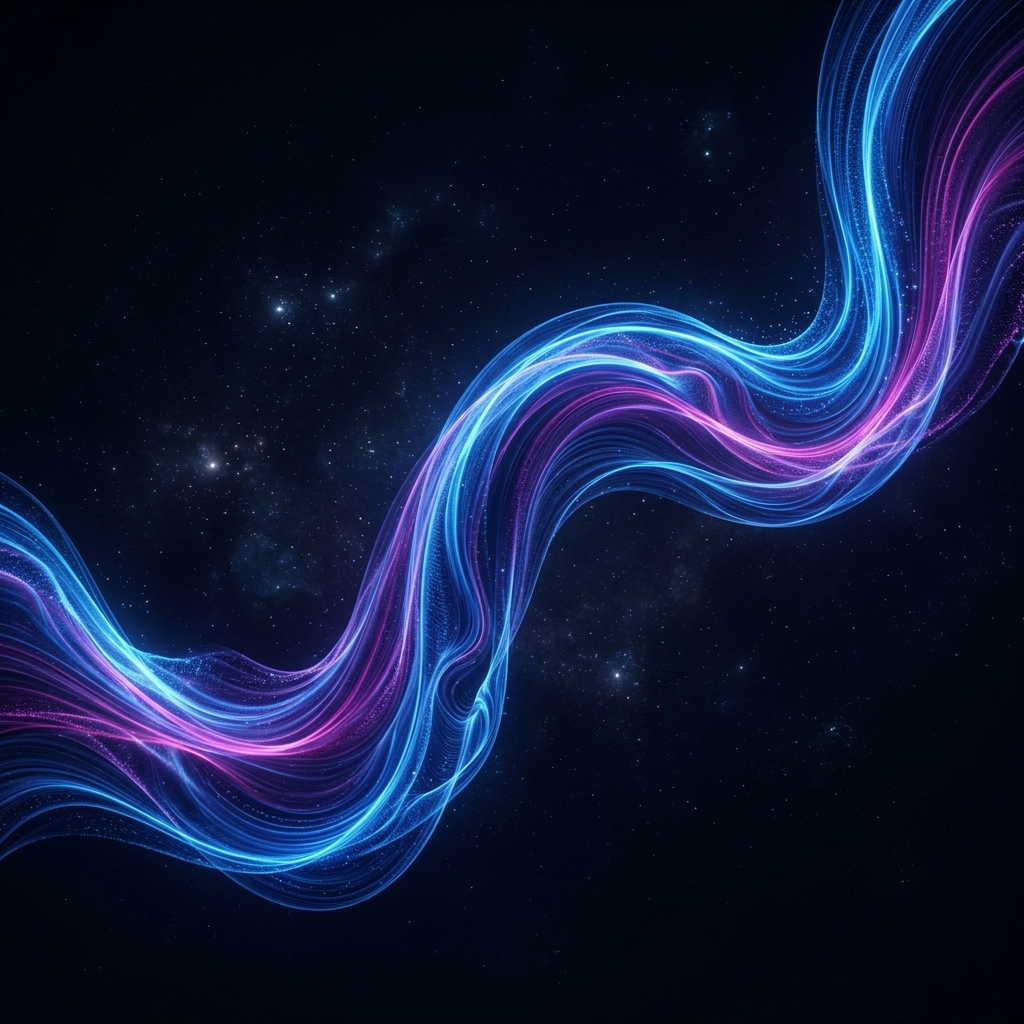
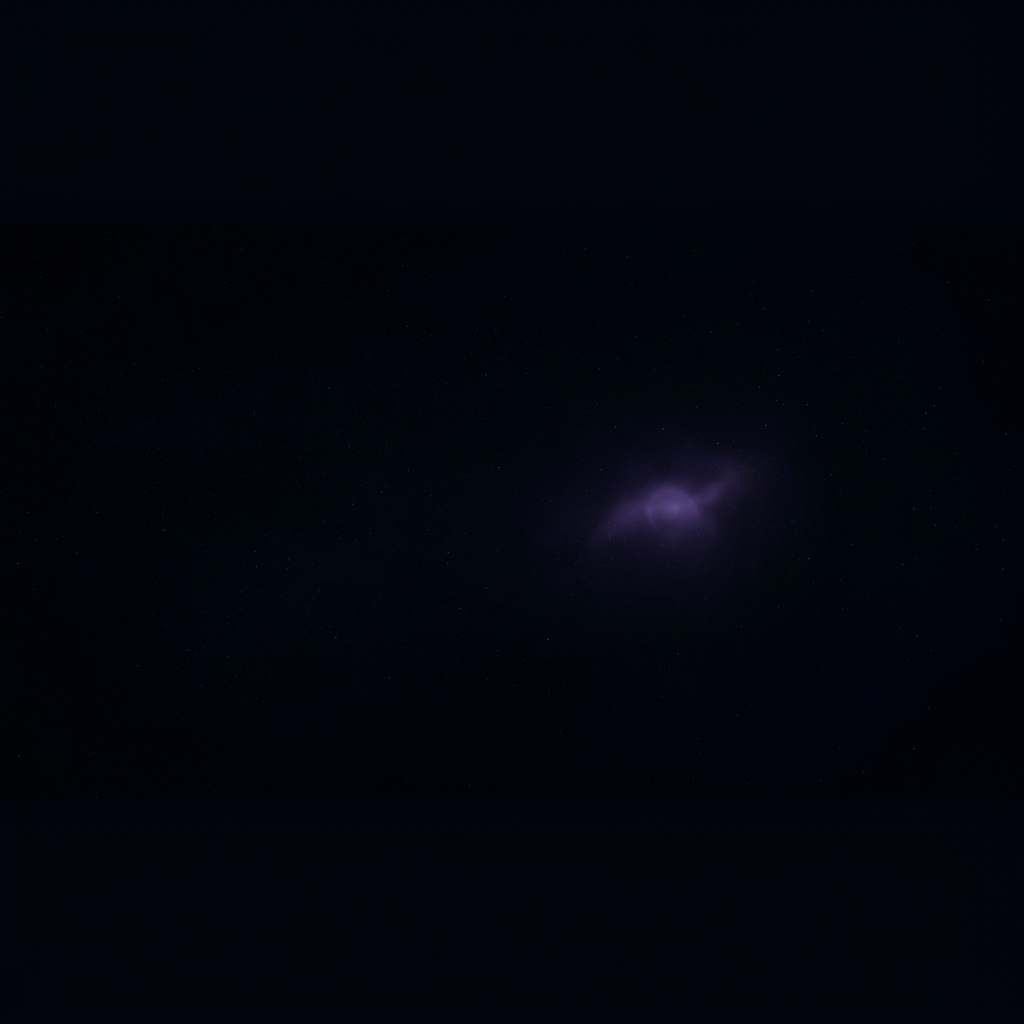
style: Switch accent to deep purple and darken cinematic background image

diff --git a/src/main/resources/css/github-theme.css b/src/main/resources/css/github-theme.css
@@ -8,8 +8,8 @@
     -canvas-color: rgba(255, 255, 255, 0.5);
     -border-color: rgba(0, 0, 0, 0.1);
     
-    -accent-blue: #3182ce;
-    -accent-blue-hover: #4299e1;
+    -accent-primary: #7c3aed;
+    -accent-primary-hover: #8b5cf6;
     -accent-purple: #805ad5;
     
     -input-bg: rgba(255, 255, 255, 0.6);
@@ -35,8 +35,8 @@
     -border-color: rgba(255, 255, 255, 0.12);
     
     /* Electric App Accents */
-    -accent-blue: #007bff;
-    -accent-blue-hover: #3399ff;
+    -accent-primary: #8b5cf6;
+    -accent-primary-hover: #a78bfa;
     -accent-purple: #bc8cff;
     
     -input-bg: rgba(0, 0, 0, 0.4);
@@ -76,13 +76,13 @@
 }
 
 .text-field:focused, .password-field:focused {
-    -fx-border-color: -accent-blue;
+    -fx-border-color: -accent-primary;
     -fx-border-width: 2px;
 }
 
 /* Core Brand Action Buttons - Pill Shaped */
 .button {
-    -fx-background-color: -accent-blue;
+    -fx-background-color: -accent-primary;
     -fx-text-fill: white;
     -fx-font-weight: bold;
     -fx-padding: 10px 20px;
@@ -93,7 +93,7 @@
 
 /* >>> THE POPPING HOVER EFFECT ! <<< */
 .button:hover {
-    -fx-background-color: -accent-blue-hover;
+    -fx-background-color: -accent-primary-hover;
     -fx-scale-x: 1.05;
     -fx-scale-y: 1.05;
 }
@@ -116,7 +116,7 @@
 }
 
 .hyperlink {
-    -fx-text-fill: -accent-blue;
+    -fx-text-fill: -accent-primary;
     -fx-underline: false;
 }
 .hyperlink:hover {
@@ -153,7 +153,7 @@
     -fx-scale-x: 1.02;
     -fx-scale-y: 1.02;
     -fx-border-color: rgba(255, 255, 255, 0.4);
-    -fx-effect: dropshadow(three-pass-box, -accent-blue, 30, 0.2, 0, 0); /* Intense outer glow! */
+    -fx-effect: dropshadow(three-pass-box, -accent-primary, 30, 0.2, 0, 0); /* Intense outer glow! */
 }
 
 /* ======================================================= */
@@ -183,7 +183,7 @@
     -fx-background-color: transparent;
 }
 .table-row-cell:selected {
-    -fx-background-color: -accent-blue;
+    -fx-background-color: -accent-primary;
 }
 .table-cell {
     -fx-text-fill: -text-color;
